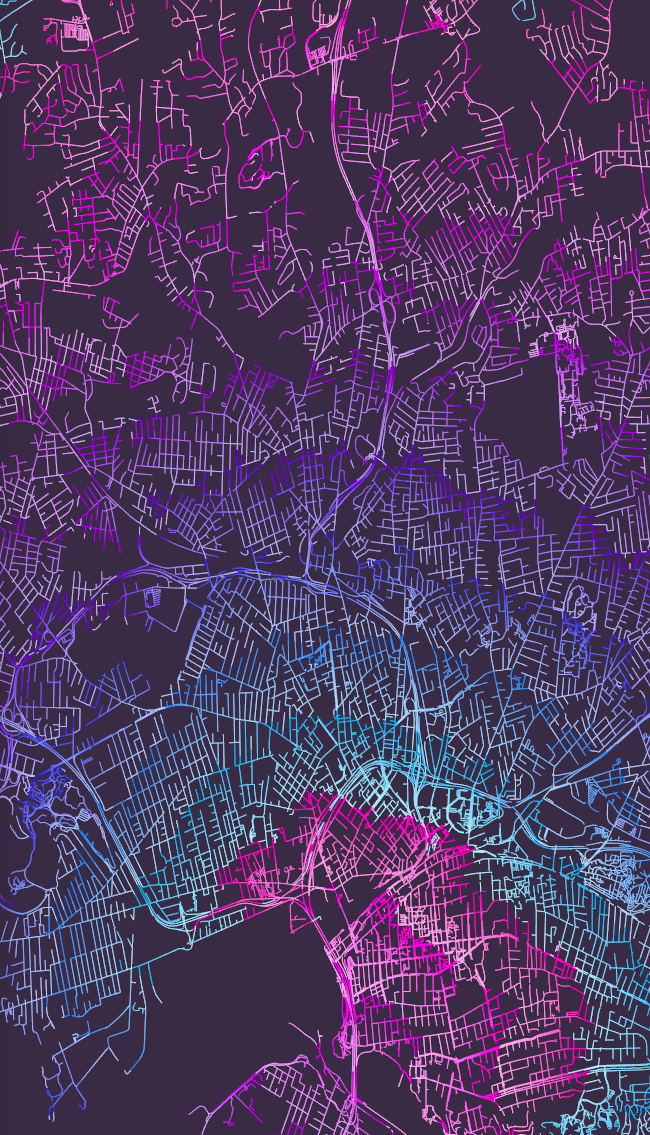
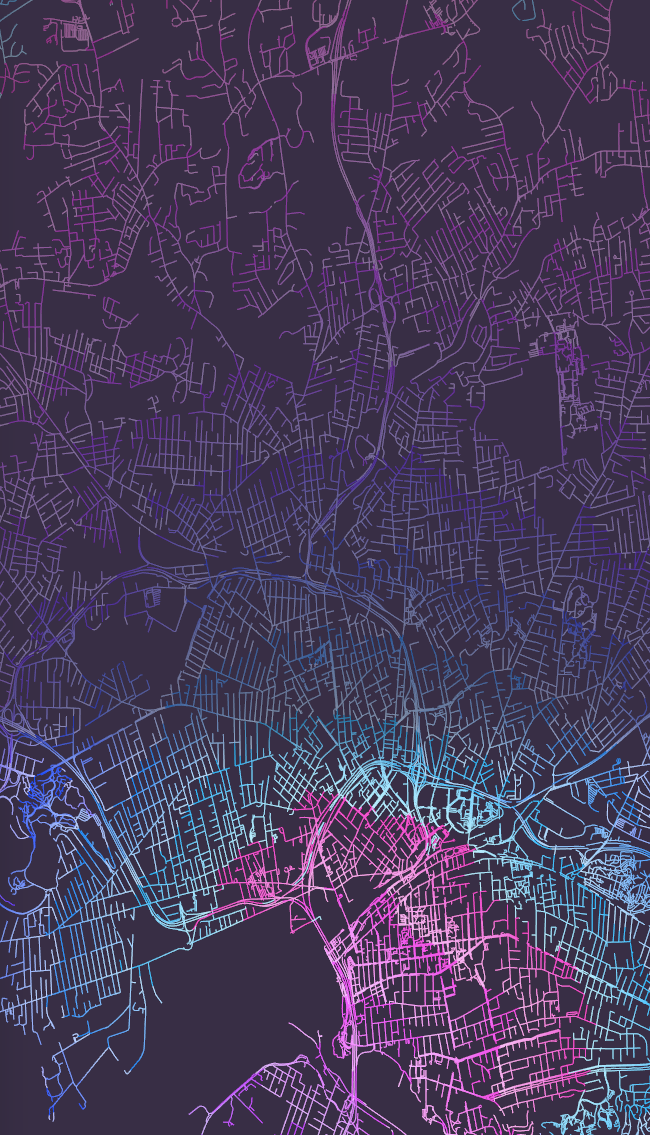
Edited rust maps picture so text is more readable.

diff --git a/public/styles2.css b/public/styles2.css
@@ -74,7 +74,7 @@ body {
 
 .A {
   grid-area: A;
-  background-image: url("images/path-distance-2.png");
+  background-image: url("images/path-distance-2-edited.png");
   background-position: center bottom;
   color: white;
 }
